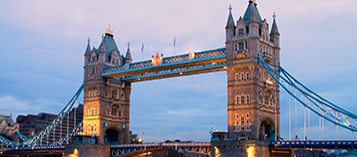
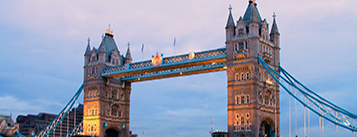
updated readme, added thumbnail,minor style changes

diff --git a/public/stylesheets/style.css b/public/stylesheets/style.css
@@ -1,7 +1,9 @@
+/*SafeTravel app CSS*/
+
 form.signup,
 form.city,
 form.login {
-  margin-top: 50px;
+  margin-top: 40px;
 }
 .cityname{
   margin-left:20px;
@@ -52,6 +54,9 @@ h2{
   padding-top: 15px;
 }
 
+.signup-text{
+  margin-top: 15px;
+}
 
 .selected{
     background-color:#f3b666;

diff --git a/README.md b/README.md
@@ -1,1 +1,75 @@
-# safetravel
+## Project Name: SafeTravel
+
+![image](public/assets/img/sf-travel.jpg)
+
+## Table of Contents
+
+<!-- vscode-markdown-toc -->
+* 1. [Link repository](#Linktorepository)
+* 2. [Introduction](#Introduction)
+* 3. [Technologies](#Technologies)
+* 4. [Files](#Files)
+* 5. [Features](#Features)
+* 6. [Future Development](Future Develoment)
+* 7. [Launch](#Launch)
+
+<!-- vscode-markdown-toc-config
+	numbering=true
+	autoSave=true
+	/vscode-markdown-toc-config -->
+<!-- /vscode-markdown-toc -->
+
+##  1. <a name='Linktorepository'></a>Link to repository
+
+* [Repository](https://github.com/sskumar4/safetravel)
+* [Link to deployment](https://safe-travel-wishlist.herokuapp.com/)
+  
+##  2. <a name='Introduction'></a>Introduction   
+
+SafeTravel is an application that finds the safety score of a given destination using Amadeus API and allows the user to save the destination in a wish list as a future travel destination. After logging in, when the user selects a city, the safety score is displayed in a box on the same page. The user can click the 'Add to wish list' button which allows the user to save the destination and view the wish list in the Wish List page.
+
+'SafeTravel' is a full stack app that the front-end and back-end interact with each other. The Front End takes user input using javascript and html/handlebars and queries the back-end. The back-end processes the API routes, makes queries to Amadeus/Google geocode API and sends back the JSON results. The back-end also implements html routes, when invoked from front-end queries the database and renders the page with saved list using handlebars. The front-end and back-end also has functionality that implements passport based user signup/login using mysql and sequelize that came with the starter files.
+
+The starter model had user authentication information modeled using user.js. It was augmented with city safety score information using city.js
+
+##  3. <a name='Technologies'></a>Technologies 
+Express, handlebars, sequelize, mysql, nodejs, jquery, javascript, html HTML, CSS, BootStrap CSS, Pure CSS Heroku 
+
+API: Amadeus API to get safety score and Google geocode API to get the lat, long of the city
+
+NPM packages -- Express, express-handlebars, mysql
+
+##  4. <a name='Files'></a>Files
+
+js files:
+ * Created city.js (back-end), wishlist.js (Front-end)
+ * modified api-routes.js, html-routes.js (back-end)
+Other files:
+* style.css, main.handlebars, login.handlebars, members.handlebars, signup.handlebars, city-block.handlebars, wishlist.handlebars (front-end)
+
+##  5. <a name='Features'></a>Features
+
+### App Setup
+ Create a GitHub repo and clone it to your computer.
+ Make a package.json file by running npm init from the command line.
+ Install the Express npm package: npm install express.
+ Create a server.js file.
+ Install the Handlebars npm package: npm install express-handlebars.
+ Install the body-parser npm package: npm install body-parser.
+ Install MySQL npm package: npm install mysql.
+ Require the following npm packages inside of the server.js file: 
+ express
+ express-session
+
+In this application, html templates are used using handlebars. Also used the MVC paradigm of project management to structure both out file setup, and the content of our script files.
+
+## 6. <a name='Future Development'></a>Future Development
+As a future development,
+  1.  The app will allow the wish list destination to be marked as visited and add a travelogue about the destination which will be stored in a database or deleted from the list.
+  2.  The app will be able to find and save sightseeing attractions around the safe destination.
+
+
+
+## 7. <a name='Launch'></a>Launch
+
+* Deployed Heroku link to the app: https://safe-travel-wishlist.herokuapp.com/
